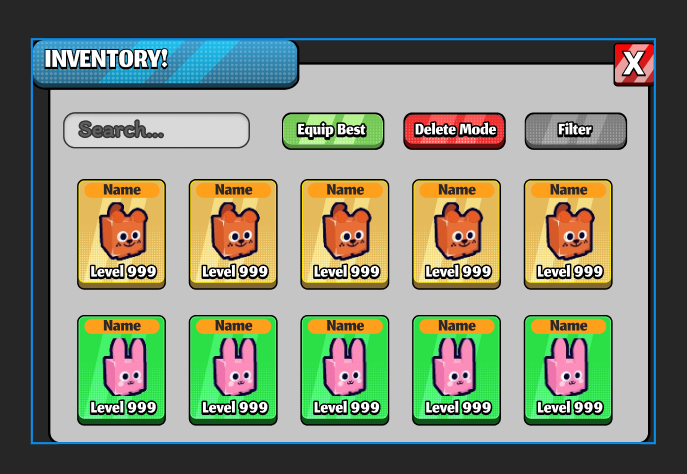
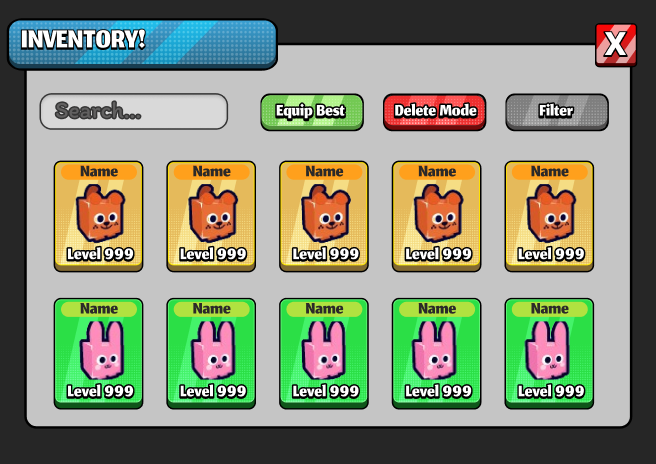
Update Pet Inventory image with corrected bunny name badge colors

diff --git a/ui.html b/ui.html
@@ -14,15 +14,15 @@
   <meta property="og:site_name" content="Portfolio">
   <meta property="og:title" content="inbo | Roblox UI Design (Cartoony &amp; Stud Style)">
   <meta property="og:description" content="Custom cartoony &amp; stud style Roblox UI design: simulator inventory, shop bundles, HUDs, and game interfaces.">
-  <meta property="og:image" content="https://inbodev.com/images/ui-inventory.png?v=2">
+  <meta property="og:image" content="https://inbodev.com/images/ui-inventory.png?v=3">
   <meta property="og:image:type" content="image/png">
-  <meta property="og:image:width" content="687">
-  <meta property="og:image:height" content="474">
+  <meta property="og:image:width" content="656">
+  <meta property="og:image:height" content="464">
   <meta property="og:image:alt" content="Roblox Cartoony Simulator Pet and Item Inventory UI Design">
   <meta name="twitter:card" content="summary_large_image">
   <meta name="twitter:title" content="inbo | Roblox UI Design (Cartoony &amp; Stud Style)">
   <meta name="twitter:description" content="Custom cartoony &amp; stud style Roblox UI design: simulator inventory, shop bundles, HUDs, and game interfaces.">
-  <meta name="twitter:image" content="https://inbodev.com/images/ui-inventory.png?v=2">
+  <meta name="twitter:image" content="https://inbodev.com/images/ui-inventory.png?v=3">
   <meta name="twitter:image:alt" content="Roblox Cartoony Simulator Pet and Item Inventory UI Design">
   <link rel="stylesheet" href="https://cdn.jsdelivr.net/npm/@fontsource/syne@5.1.0/latin.css">
   <link rel="stylesheet" href="https://cdn.jsdelivr.net/npm/@fontsource/fira-code@5.1.0/latin.css">
@@ -146,10 +146,10 @@
 
           <!-- UI 1: INVENTORY (CARTOONY) -->
           <article class="ui-card fade-in">
-            <div class="ui-card-media" onclick="openLightbox('/images/ui-inventory.webp', 'Roblox Cartoony Simulator Inventory UI');" role="button" tabindex="0" aria-label="Open Inventory UI in full resolution">
+            <div class="ui-card-media" onclick="openLightbox('/images/ui-inventory.webp?v=3', 'Roblox Cartoony Simulator Inventory UI');" role="button" tabindex="0" aria-label="Open Inventory UI in full resolution">
               <picture>
-                <source srcset="/images/ui-inventory.webp" type="image/webp">
-                <img src="/images/ui-inventory.png" alt="Roblox Cartoony Simulator Pet and Item Inventory UI" width="687" height="474" loading="lazy" decoding="async">
+                <source srcset="/images/ui-inventory.webp?v=3" type="image/webp">
+                <img src="/images/ui-inventory.png?v=3" alt="Roblox Cartoony Simulator Pet and Item Inventory UI" width="656" height="464" loading="lazy" decoding="async">
               </picture>
               <div class="ui-card-zoom-hint">
                 <svg width="14" height="14" viewBox="0 0 24 24" fill="none" stroke="currentColor" stroke-width="2"><circle cx="11" cy="11" r="8"/><line x1="21" y1="21" x2="16.65" y2="16.65"/><line x1="11" y1="8" x2="11" y2="14"/><line x1="8" y1="11" x2="14" y2="11"/></svg>
@@ -179,7 +179,7 @@
                   <span class="chip">Pet System</span>
                   <span class="chip">Vector Art</span>
                 </div>
-                <button type="button" class="ui-card-zoom-btn" onclick="openLightbox('/images/ui-inventory.webp', 'Roblox Cartoony Simulator Inventory UI');">
+                <button type="button" class="ui-card-zoom-btn" onclick="openLightbox('/images/ui-inventory.webp?v=3', 'Roblox Cartoony Simulator Inventory UI');">
                   Full size ↗
                 </button>
               </div>

diff --git a/ui/index.html b/ui/index.html
@@ -14,15 +14,15 @@
   <meta property="og:site_name" content="Portfolio">
   <meta property="og:title" content="inbo | Roblox UI Design (Cartoony &amp; Stud Style)">
   <meta property="og:description" content="Custom cartoony &amp; stud style Roblox UI design: simulator inventory, shop bundles, HUDs, and game interfaces.">
-  <meta property="og:image" content="https://inbodev.com/images/ui-inventory.png?v=2">
+  <meta property="og:image" content="https://inbodev.com/images/ui-inventory.png?v=3">
   <meta property="og:image:type" content="image/png">
-  <meta property="og:image:width" content="687">
-  <meta property="og:image:height" content="474">
+  <meta property="og:image:width" content="656">
+  <meta property="og:image:height" content="464">
   <meta property="og:image:alt" content="Roblox Cartoony Simulator Pet and Item Inventory UI Design">
   <meta name="twitter:card" content="summary_large_image">
   <meta name="twitter:title" content="inbo | Roblox UI Design (Cartoony &amp; Stud Style)">
   <meta name="twitter:description" content="Custom cartoony &amp; stud style Roblox UI design: simulator inventory, shop bundles, HUDs, and game interfaces.">
-  <meta name="twitter:image" content="https://inbodev.com/images/ui-inventory.png?v=2">
+  <meta name="twitter:image" content="https://inbodev.com/images/ui-inventory.png?v=3">
   <meta name="twitter:image:alt" content="Roblox Cartoony Simulator Pet and Item Inventory UI Design">
   <link rel="stylesheet" href="https://cdn.jsdelivr.net/npm/@fontsource/syne@5.1.0/latin.css">
   <link rel="stylesheet" href="https://cdn.jsdelivr.net/npm/@fontsource/fira-code@5.1.0/latin.css">
@@ -146,10 +146,10 @@
 
           <!-- UI 1: INVENTORY (CARTOONY) -->
           <article class="ui-card fade-in">
-            <div class="ui-card-media" onclick="openLightbox('/images/ui-inventory.webp', 'Roblox Cartoony Simulator Inventory UI');" role="button" tabindex="0" aria-label="Open Inventory UI in full resolution">
+            <div class="ui-card-media" onclick="openLightbox('/images/ui-inventory.webp?v=3', 'Roblox Cartoony Simulator Inventory UI');" role="button" tabindex="0" aria-label="Open Inventory UI in full resolution">
               <picture>
-                <source srcset="/images/ui-inventory.webp" type="image/webp">
-                <img src="/images/ui-inventory.png" alt="Roblox Cartoony Simulator Pet and Item Inventory UI" width="687" height="474" loading="lazy" decoding="async">
+                <source srcset="/images/ui-inventory.webp?v=3" type="image/webp">
+                <img src="/images/ui-inventory.png?v=3" alt="Roblox Cartoony Simulator Pet and Item Inventory UI" width="656" height="464" loading="lazy" decoding="async">
               </picture>
               <div class="ui-card-zoom-hint">
                 <svg width="14" height="14" viewBox="0 0 24 24" fill="none" stroke="currentColor" stroke-width="2"><circle cx="11" cy="11" r="8"/><line x1="21" y1="21" x2="16.65" y2="16.65"/><line x1="11" y1="8" x2="11" y2="14"/><line x1="8" y1="11" x2="14" y2="11"/></svg>
@@ -179,7 +179,7 @@
                   <span class="chip">Pet System</span>
                   <span class="chip">Vector Art</span>
                 </div>
-                <button type="button" class="ui-card-zoom-btn" onclick="openLightbox('/images/ui-inventory.webp', 'Roblox Cartoony Simulator Inventory UI');">
+                <button type="button" class="ui-card-zoom-btn" onclick="openLightbox('/images/ui-inventory.webp?v=3', 'Roblox Cartoony Simulator Inventory UI');">
                   Full size ↗
                 </button>
               </div>
